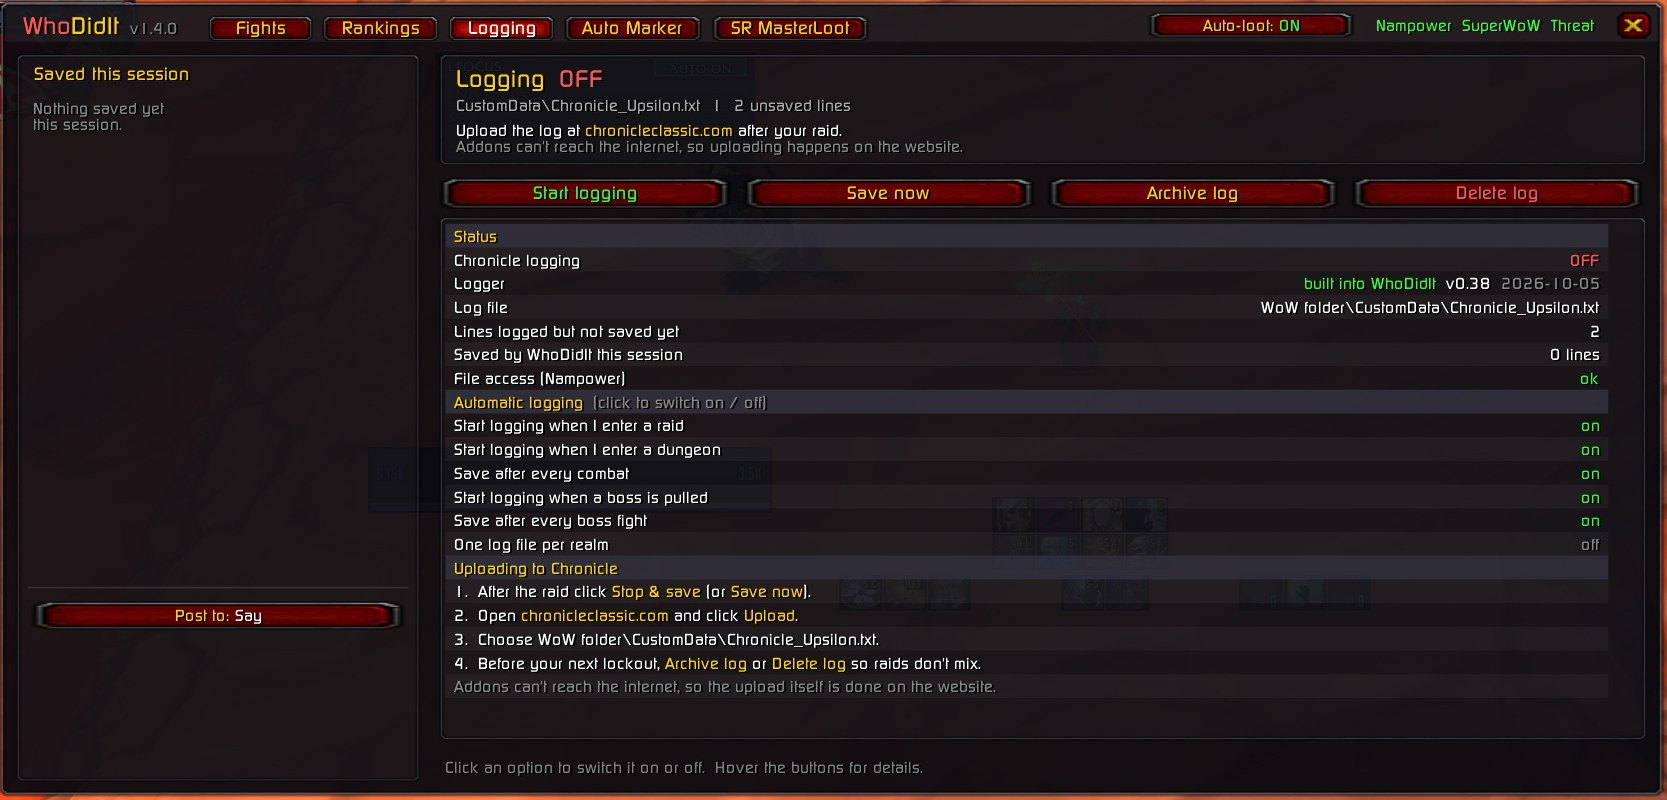
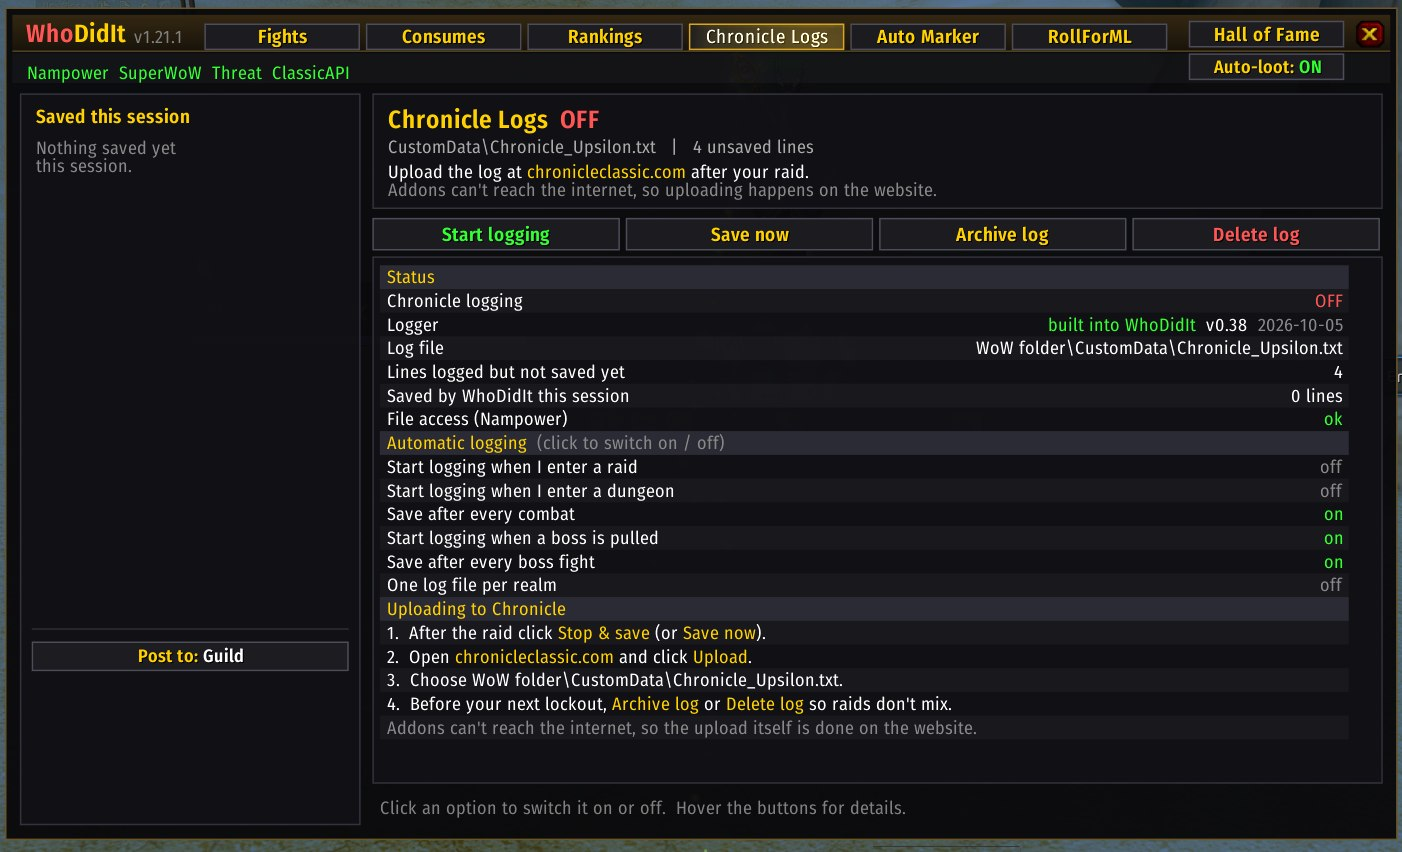
README: new screenshots, and every feature in the opening lines
Replaced the screenshots of the redesigned tabs: Rankings kill times and
clears, Consumes with DopingControl, Chronicle Logs, Auto Marker, RollForML
and Auto-loot. Added the 5-man rankings screenshot.

The opening now lists every feature, so a shared link shows what's in it.
The highlights now cover the guild Hall of Fame and 5-man rankings.

Changed region(s): [[0.0, 0.0, 1.0, 1.0]]

diff --git a/README.md b/README.md
@@ -2,14 +2,17 @@
 
 # WhoDidIt
 
-**Raid wipe & death analyser for World of Warcraft 1.12**
+**The all-in-one raid addon for World of Warcraft 1.12**
 <br>OctoWoW · Turtle WoW · vanilla
 
-Records every boss fight, then tells you **why** the raid wiped and **who** did it.
+Records every boss fight and tells you **why** the raid wiped and **who** did it, then adds everything else a raid
+needs, in one drag-and-drop folder:
 
-Death recaps · blame &amp; hero boards · threat · meters · consume checks (DopingControl built in) · Hall of Fame
-<br>Every guild's kill &amp; clear times from Chronicle, synced in game · Chronicle logger · Auto Marker · RollForML (soft-res master loot with RollFor) · Auto-loot
-<br>Nothing to install but the addon · nothing posted without you seeing it · nothing from your PC shared
+🔍 Wipe analysis · ☠ death recaps · 📋 blame &amp; hero boards · 🎯 threat · 📊 meters · ⏱ second-by-second timeline
+<br>🧪 Consume checks + DopingControl · 🏅 a Hall of Fame shared with your guild · 📣 shout-outs &amp; banter
+<br>🏆 Raid rankings for every guild on the server (from Chronicle, synced in game) · ⚡ 5-man dungeon speedrun rankings
+<br>📝 Chronicle logger · 💀 Auto Marker (~365 raid packs) · 💰 RollFor soft-res master loot · 🎒 Auto-loot
+<br>No programs to run · nothing posted without you seeing it first
 
 ![WoW 1.12.1](https://img.shields.io/badge/WoW-1.12.1-c79c6e?style=flat-square)
 ![Lua 5.0](https://img.shields.io/badge/Lua-5.0-2c2d72?style=flat-square)
@@ -33,7 +36,8 @@ Death recaps · blame &amp; hero boards · threat · meters · consume checks (D
 - 📋 **Blame board & heroes.** Points for every mistake (standing in fire, pulling aggro, bombing the raid, idling, low DPS) and every game-saving play (clutch heals, shields, taunts, BoP, battle res, dispels).
 - 🎯 **Threat & timeline.** Who the boss attacked and why, with the server's threat %. Click any name to jump to that player's own timeline at that moment.
 - 🧪 **Consumes & slackers.** Everyone's flask, elixirs, food and protection potions, every potion and healthstone used, and who's missing what their role needs, at every pull and ready check. **Open DopingControl** (the green button) opens it (built in) for the whole raid matrix: buffs, debuffs, resistances, hit and enchants.
-- 🏅 **Hall of Fame.** A running tally over every fight: the biggest heroes and the Hall of Shame of all time, with every clutch play and mistake counted in points, MVPs, the best plays and the worst blunders ever. Post any of it.
+- 🏅 **Hall of Fame.** A running tally over every fight: the biggest heroes and the Hall of Shame of all time, with every clutch play and mistake counted in points, MVPs, the best plays and the worst blunders ever. **Shared with your guild:** every member's fights add up, also raids you weren't in. Post any of it.
+- ⚡ **5-man rankings.** The fastest groups through all 13 level-60 dungeons (Turtle's included), first pull to last boss: name your group, see every run's members, boss splits and deaths, and race the realm.
 - 📣 **Shout-outs.** *Name & Shame* (top 3 to blame) and *Big Them Up*, reports, single mistakes or hero moments, posted to any channel in colour.
 - 🏆 **Rankings.** Kill and full-clear times against every guild on your realm and the other realms (from Chronicle), a rival watch when someone beats your times, and optional banter after kills. Click any time to open that guild's whole raid. **5-mans:** the fastest groups through every level-60 dungeon, with their members, boss splits and deaths; name your group. *Nothing to install: the times arrive in game from the maintainer's [master feed](#master-feed-nothing-to-install).*
 - 📝 **Chronicle Logs.** Drives the Chronicle combat logger: start, save, archive and upload your logs. *Built in; logs nothing until you say yes.*
@@ -70,12 +74,16 @@ Every window below is the built-in **Demo fight** (made-up raiders) or your own 
   </tr>
 </table>
 
-### Rankings: kill times and clears
+### Rankings: raids and 5-mans
 
 <table>
   <tr>
     <td width="50%"><img src="docs/rankings.jpg" alt="Kill times"><br><b>Kill times.</b> Every boss: your best, your guild's best, its rank, the gap to #1 and who holds it. A red <b>!</b> marks a boss someone recently beat you on; the <b>Rival watch</b> lists them (click to post a taunt). Bottom left: banter, rival alerts and posting the standings.</td>
     <td width="50%"><img src="docs/clears.jpg" alt="Full clears"><br><b>Full clears.</b> The instance leaderboard with faction, date, raid size, time and how each guild compares with yours. Click any guild's time to open that raid: every boss kill in order, wipes, and a link to the log on Chronicle. <b>Realm</b> switches to the other realms or all of them together.</td>
+  </tr>
+  <tr>
+    <td width="50%"><img src="docs/fivemans.jpg" alt="5-man rankings"><br><b>5-man rankings.</b> <b>Raids / 5-mans</b> at the top of the list. Every level-60 dungeon with its loading screen; the fastest groups by name, with members in class colours, deaths and time. Click a group for its run: the members, a split for every boss and the deaths. Name your group when it finishes; <b>Your runs</b> lists all of yours.</td>
+    <td width="50%"><b>Every raid and every guild.</b> The left column shows each instance's picture, your guild's clear, its rank (gold / silver / bronze) and a green bar for how close you are to #1. The raid times come with the download and the maintainer's master feed keeps them fresh in game, so there's nothing to install or run. <b>All times / Since 6 Oct</b> splits the times from before and after the raid scaling change.</td>
   </tr>
 </table>
 
@@ -83,7 +91,7 @@ Every window below is the built-in **Demo fight** (made-up raiders) or your own 
 
 <table>
   <tr>
-    <td width="50%"><img src="docs/logging.jpg" alt="Chronicle Logs"><br><b>Chronicle Logs.</b> The Chronicle combat logger, built in: start and stop logging, save, archive between lockouts, the automatic options (start in raids, save after every boss), and how to upload the log to chronicleclassic.com.</td>
+    <td width="50%"><img src="docs/logging.jpg" alt="Chronicle Logs"><br><b>Chronicle Logs.</b> The Chronicle combat logger (ChronicleCompanion), built in: whether it's logging, the log file and how much isn't saved yet, start and stop, save, archive between lockouts, the automatic options (start in raids, save after every boss) and how to upload the log to chronicleclassic.com.</td>
     <td width="50%"><img src="docs/marker.jpg" alt="Auto Marker"><br><b>Auto Marker.</b> Every pack in the zone (the built-in raid packs, WhoDidIt's standard ones and yours) with its marks, mob count and how many are in range. Hold Shift + Ctrl over a mob to mark its whole pack, or mark the next pack along the route. Mark mobs yourself and click <b>Save marks as pack</b> to keep them.</td>
   </tr>
   <tr>
